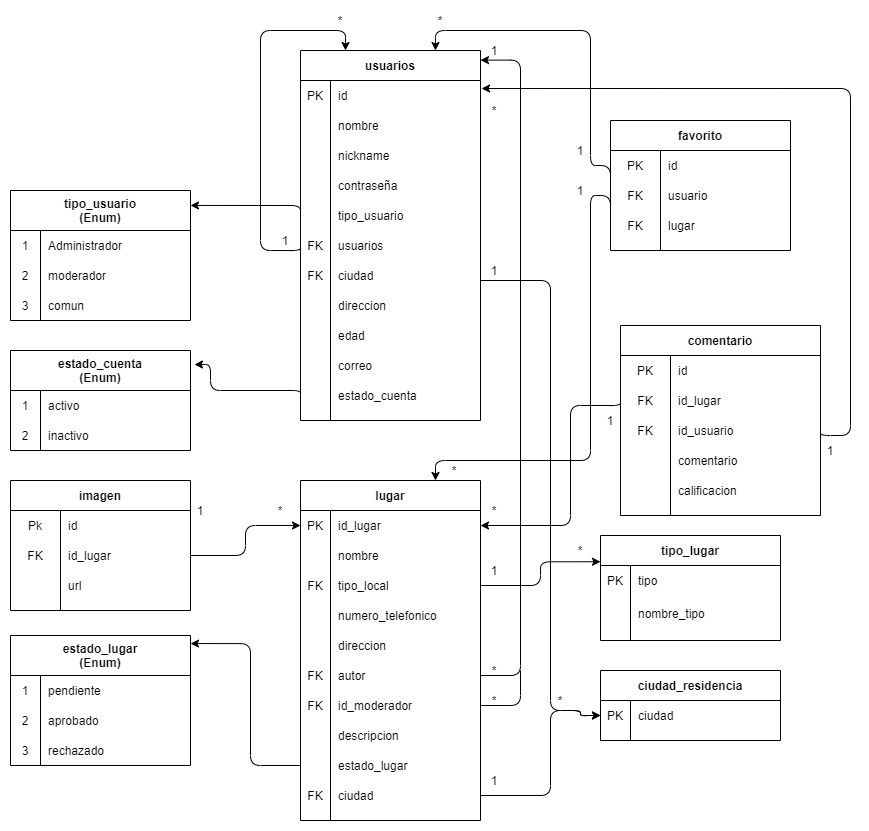
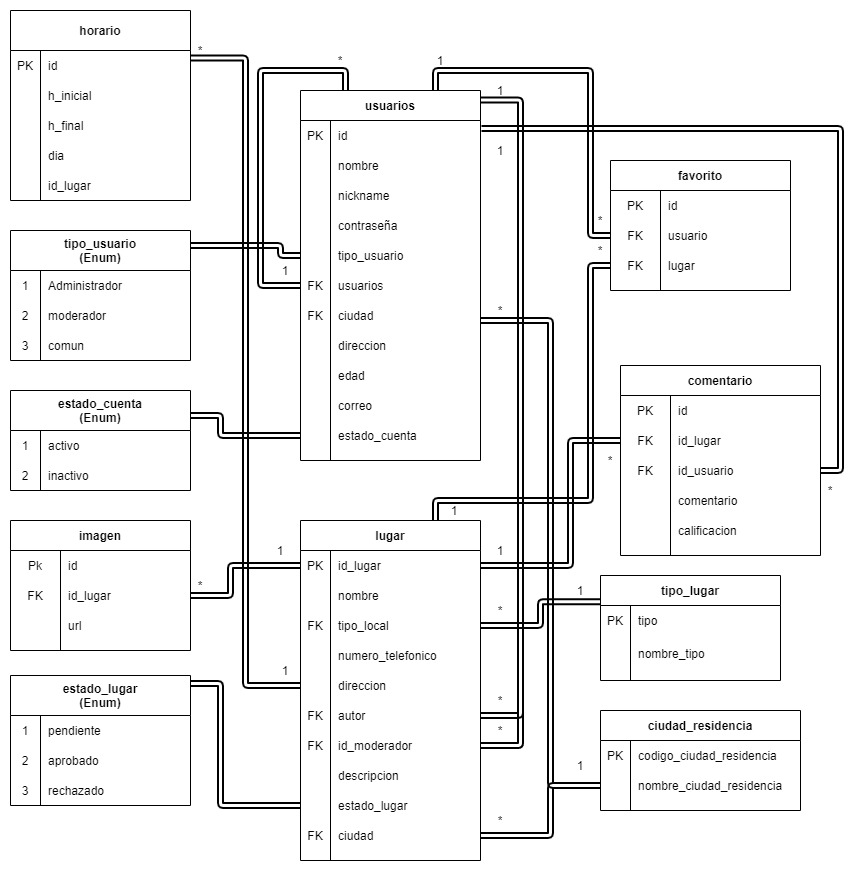
se creo la tabla horario, falta el crud

diff --git a/persistencia/src/main/java/co/edu/uniquindio/proyecto/entidades/Lugar.java b/persistencia/src/main/java/co/edu/uniquindio/proyecto/entidades/Lugar.java
@@ -48,6 +48,9 @@ public class Lugar implements Serializable
     @ManyToOne
     private CiudadResidencia ciudadResidencia;
 
+    @OneToMany(mappedBy = "lugar")
+    private List<Horario> horario;
+
     //inverso de la relacion lugar-favorito
     @OneToMany(mappedBy = "lugar")
     private List<Favorito> favoritos;
@@ -180,7 +183,7 @@ public class Lugar implements Serializable
         this.id = id;
     }
 
-    //get del inverso de la relacion lugar-imagen
+    //obtiene las imagenes del lugar
     public List<Imagen> getImagenes() {
         return imagenes;
     }
@@ -190,7 +193,7 @@ public class Lugar implements Serializable
         this.imagenes = imagenes;
     }
 
-    //get del inverso de la relacion lugar-favorito
+    //obtiene los favoritos en los que esta el lugar
     public List<Favorito> getFavoritos() {
         return favoritos;
     }
@@ -200,7 +203,7 @@ public class Lugar implements Serializable
         this.favoritos = favoritos;
     }
 
-    //get del inverso de la relacion lugar-comentario
+    //obtiene los comentarios del lugar
     public List<Comentario> getComentarios() {
         return comentarios;
     }
@@ -208,6 +211,16 @@ public class Lugar implements Serializable
     //set del inverso de la relacion lugar-comentario
     public void setComentarios(List<Comentario> comentarios) {
         this.comentarios = comentarios;
+    }
+
+    //obtiene la lista de horarios del lugar
+    public List<Horario> getHorario() {
+        return horario;
+    }
+
+    //set del inverso de la relacion lugar-horario
+    public void setHorario(List<Horario> horario) {
+        this.horario = horario;
     }
 
     //map
